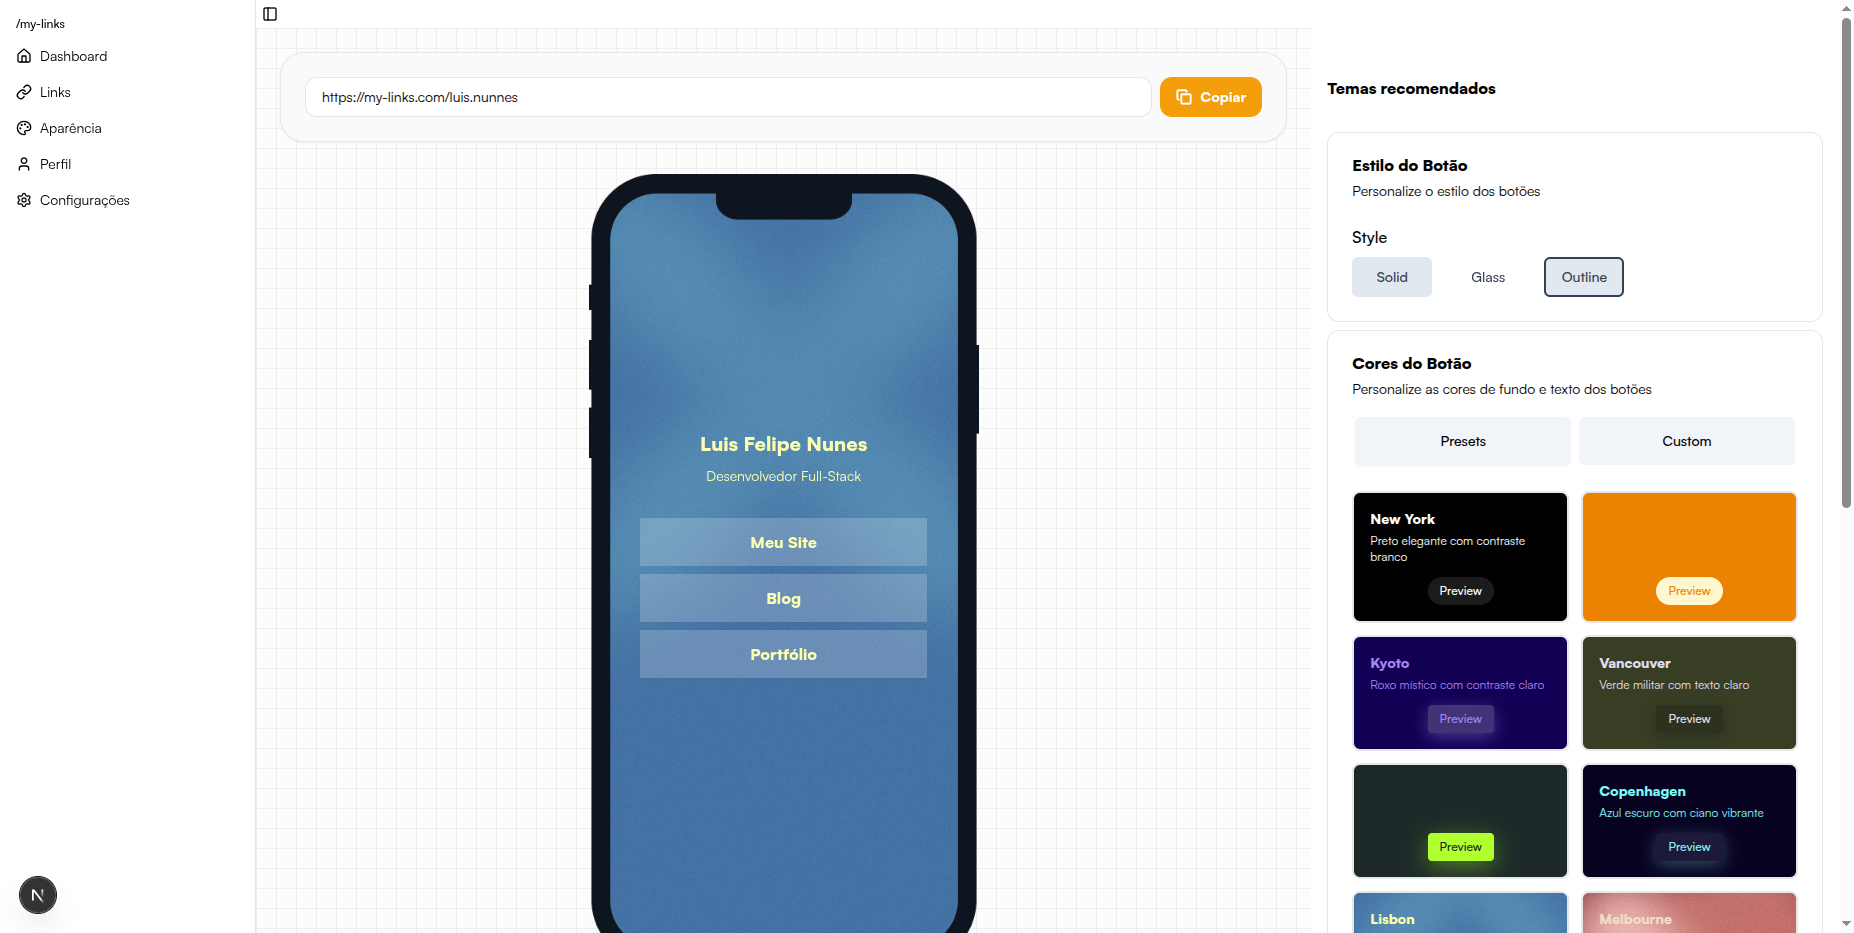
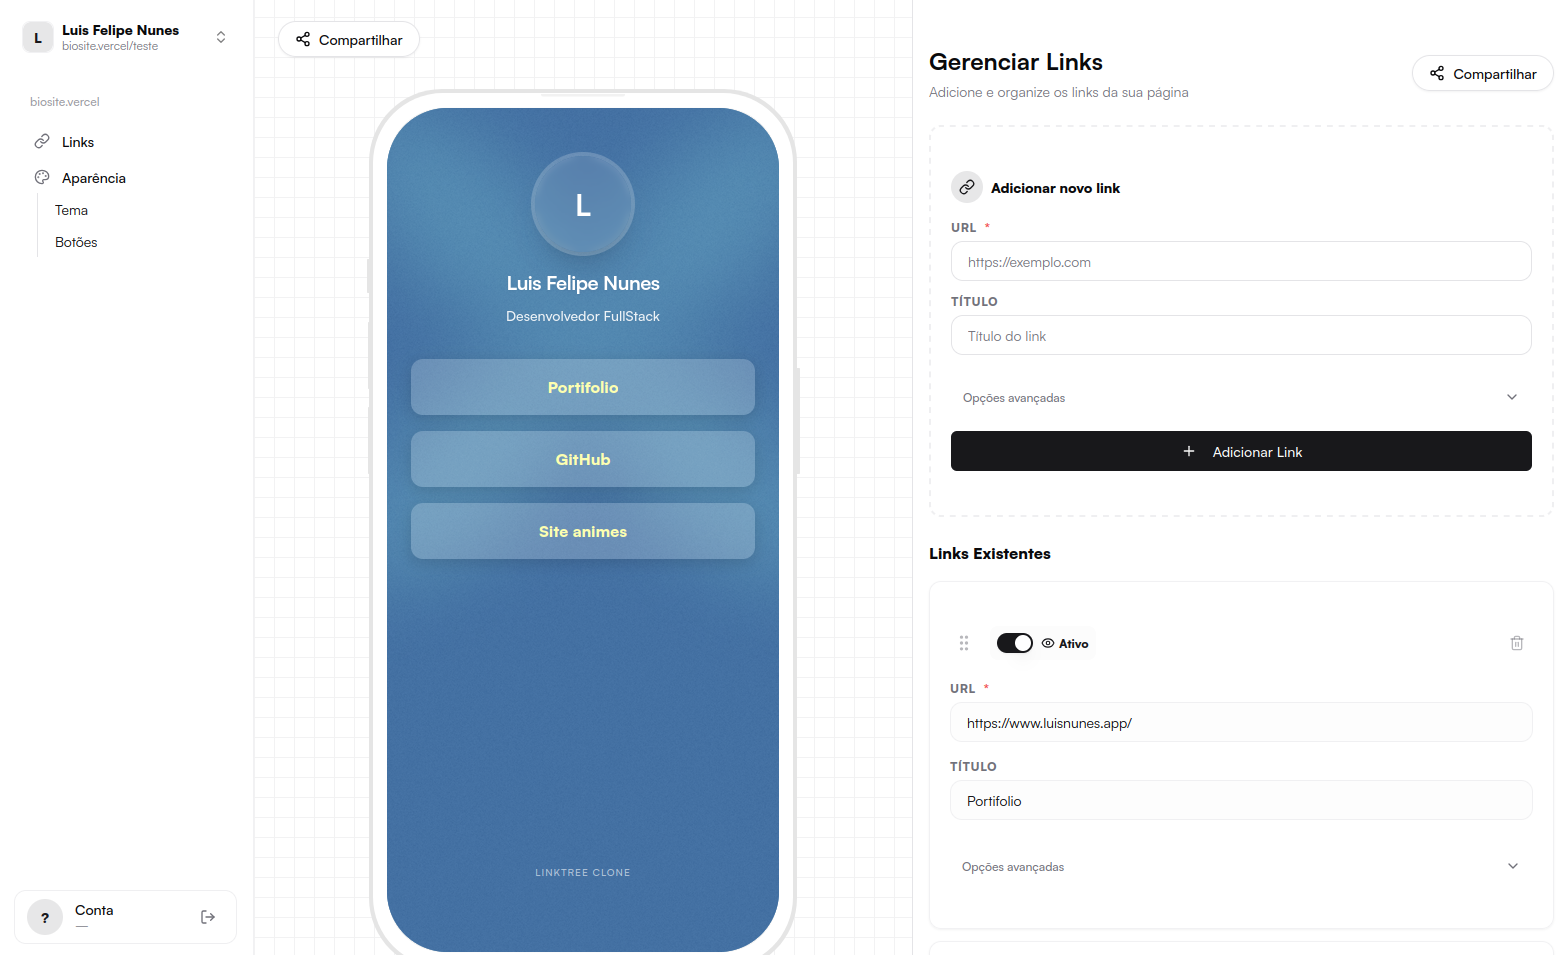
docs: change cover image

diff --git a/src/app/admin/[slug]/appearance/theme/page.tsx b/src/app/admin/[slug]/appearance/theme/page.tsx
@@ -1,14 +1,16 @@
 import CustomizeColorsButton from '@/components/appearance/customize/customize-colors'
-import { CustomizeButton } from '@/components/style/button'
 
 export default function AppearanceTheme() {
-
   return (
     <aside className="relative z-10 p-4 lg:w-1/2 inset-0 border-l">
       <div className="mt-8 space-y-4 px-4">
-        <h1 className="font-semibold">
-          Personalize a Aparência da Sua Página
-        </h1>
+        <div className="space-y-2">
+          <p className="text-xs font-medium uppercase tracking-[0.2em] text-muted-foreground">Tema</p>
+          <h1 className="font-semibold text-2xl">Personalize a aparência da sua página</h1>
+          <p className="text-sm text-muted-foreground">
+            Escolha presets profissionais ou ajuste manualmente cores de fundo e botões.
+          </p>
+        </div>
 
         <CustomizeColorsButton />
 

diff --git a/src/components/appearance/customize/customize-colors.tsx b/src/components/appearance/customize/customize-colors.tsx
@@ -8,7 +8,7 @@ import { useActivePage } from '@/contexts/active-page'
 import { useUpdatePageTheme } from '@/hooks/use-pages'
 import { Input } from '@/components/ui/input'
 import { Label } from '@/components/ui/label'
-import { useState, useEffect } from 'react'
+import { useState } from 'react'
 import { Save, Loader2 } from 'lucide-react'
 import THEME_PRESETS from '@/lib/theme-presets'
 import z from 'zod'
@@ -69,12 +69,10 @@ export function CustomizeColorsButton() {
     },
   })
 
-  // Monitora os valores em tempo real
   const formValues = watch()
 
-  // Atualiza o contexto visual (preview) quando o form muda
   const handleColorChange = (field: keyof CustomizeColorsSchema, value: string) => {
-    setValue(field, value) // Atualiza o form state
+    setValue(field, value)
 
     const newValues = { ...formValues, [field]: value }
 

diff --git a/src/app/admin/[slug]/links/page.tsx b/src/app/admin/[slug]/links/page.tsx
@@ -6,7 +6,6 @@ import { useActivePage } from '@/contexts/active-page'
 import { AddLinkForm } from '@/components/admin/add-link-form'
 import { EditLinkItem } from '@/components/admin/edit-link-item'
 import { useLinks } from '@/hooks/use-links'
-import { CopyUrlPage } from '@/components/copy-url-page'
 import { SharePageDialog } from '@/components/pages/share-page-dialog'
 import { BackgroundGrid } from '@/components/background-grid'
 import TemplateDefault from '@/components/appearance/default'

diff --git a/src/contexts/active-page.tsx b/src/contexts/active-page.tsx
@@ -51,8 +51,12 @@ export function ActivePageProvider({ children }: ActivePageProviderProps) {
     }
 
     const stillExists = pages.some((page) => page.id === activePage.id)
+
+    console.log('ActivePageProvider useEffect check', { activePage, pages, stillExists })
     if (!stillExists) {
       setActivePage(pages[0])
+    } else {
+      setActivePage(pages.find((page) => page.id === activePage.id) || null)
     }
   }, [pages, activePage, setActivePage, isAdminRoute])
 

diff --git a/src/components/appearance/default.tsx b/src/components/appearance/default.tsx
@@ -14,6 +14,7 @@ interface TemplateProps {
 
 export default function TemplateDefault({ links, page }: TemplateProps) {
   const { theme: appearanceTheme } = useAppearanceContext()
+  console.log('TemplateDefault received page:', page)
   const theme = (page?.theme as AppearanceTheme | undefined) ?? appearanceTheme
 
   console.log('Rendering TemplateDefault with theme:', theme)
